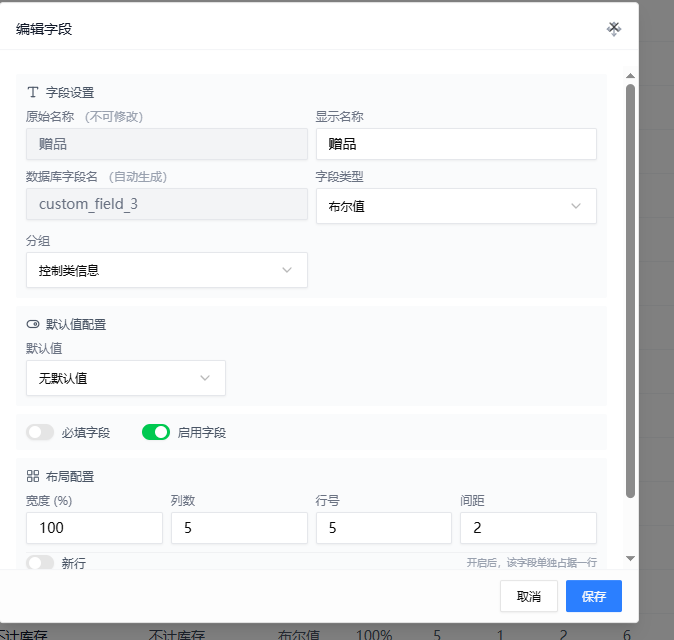
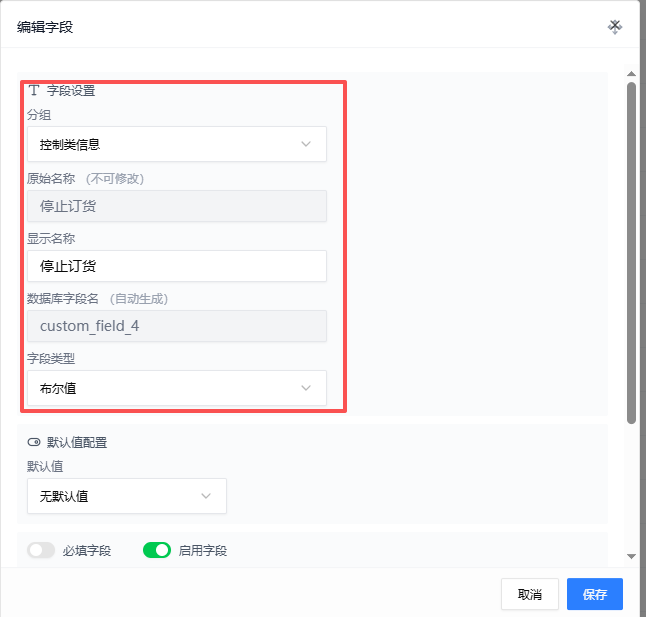
refactor: 将编辑字段表单改为两列布局
- 使用 grid grid-cols-2 实现两列布局
- 第一行：分组（左）、原始名称（右）
- 第二行：显示名称（左）、数据库字段名（右）
- 第三行：字段类型（左）、默认值（右，仅布尔值时显示）
- 移除独立的默认值配置模块，整合到字段设置区域

diff --git a/src/app/products/basic-info/page.tsx b/src/app/products/basic-info/page.tsx
@@ -2120,153 +2120,156 @@ export default function BasicInfoPage() {
                     <Type className="h-3.5 w-3.5" />
                     字段设置
                   </div>
-                  {/* 分组 - 第一行 */}
-                  <div>
-                    <Label htmlFor="group" className="text-xs text-gray-500 mb-1 block">分组</Label>
-                    <Select
-                      value={formData.group}
-                      onValueChange={(value) => {
-                        const maxRowIndex = calculateMaxRowIndex(value)
-                        setFormData({
-                          ...formData,
-                          group: value,
-                          rowIndex: maxRowIndex + 1
-                        })
-                      }}
-                    >
-                      <SelectTrigger className="h-8 text-xs bg-white border-gray-200 w-full max-w-[300px]">
-                        <SelectValue placeholder="选择分组" />
-                      </SelectTrigger>
-                      <SelectContent>
-                        {groups.map((group) => (
-                          <SelectItem key={group.id} value={group.id.toString()} className="text-xs">
-                            {group.name}
-                          </SelectItem>
-                        ))}
-                      </SelectContent>
-                    </Select>
-                  </div>
-                  {/* 原始名称 - 第二行 */}
-                  <div>
-                    <div className="flex items-center gap-1 mb-1">
-                      <Label htmlFor="fieldName" className="text-xs text-gray-500">原始名称</Label>
-                      {editingField && (
-                        <Tooltip>
-                          <TooltipTrigger asChild>
-                            <span className="text-xs text-gray-400 cursor-help">（不可修改）</span>
-                          </TooltipTrigger>
-                          <TooltipContent className="max-w-xs">
-                            <p>原始名称用于标识字段，创建后不可修改。</p>
-                          </TooltipContent>
-                        </Tooltip>
-                      )}
-                    </div>
-                    <Input
-                      id="fieldName"
-                      value={formData.fieldName}
-                      onChange={(e) => {
-                        // 新建模式下：原始名称变化时，显示名称自动同步
-                        if (!editingField) {
+                  {/* 两列布局 */}
+                  <div className="grid grid-cols-2 gap-x-4 gap-y-2">
+                    {/* 分组 - 第一行左 */}
+                    <div>
+                      <Label htmlFor="group" className="text-xs text-gray-500 mb-1 block">分组</Label>
+                      <Select
+                        value={formData.group}
+                        onValueChange={(value) => {
+                          const maxRowIndex = calculateMaxRowIndex(value)
                           setFormData({
                             ...formData,
-                            fieldName: e.target.value,
-                            displayName: e.target.value, // 自动同步显示名称
-                            fieldCode: generateFieldCode(e.target.value)
+                            group: value,
+                            rowIndex: maxRowIndex + 1
                           })
-                        }
-                      }}
-                      readOnly={!!editingField}
-                      className={`h-8 text-xs w-full max-w-[300px] ${editingField ? 'bg-gray-100 border-gray-200 text-gray-500 cursor-not-allowed' : 'bg-white border-gray-200'}`}
-                      required
-                    />
-                  </div>
-                  {/* 显示名称 - 第三行 */}
-                  <div>
-                    <Label htmlFor="displayName" className="text-xs text-gray-500 mb-1 block">显示名称</Label>
-                    <Input
-                      id="displayName"
-                      value={formData.displayName}
-                      onChange={(e) => {
-                        setFormData({ 
-                          ...formData, 
-                          displayName: e.target.value,
-                        })
-                      }}
-                      placeholder="商品列表、表单中显示的名称"
-                      className="h-8 text-xs bg-white border-gray-200 w-full max-w-[300px]"
-                    />
-                  </div>
-                  {/* 数据库字段名 - 第四行 */}
-                  <div>
-                    <div className="flex items-center gap-1 mb-1">
-                      <Label htmlFor="fieldCode" className="text-xs text-gray-500">数据库字段名</Label>
-                      <Tooltip>
-                        <TooltipTrigger asChild>
-                          <span className="text-xs text-gray-400 cursor-help">（自动生成）</span>
-                        </TooltipTrigger>
-                        <TooltipContent className="max-w-xs">
-                          <p>数据库字段名用于存储商品数据，自动生成不可修改。</p>
-                        </TooltipContent>
-                      </Tooltip>
-                    </div>
-                    <Input
-                      id="fieldCode"
-                      value={formData.fieldCode}
-                      readOnly
-                      className="h-8 text-xs bg-gray-100 border-gray-200 text-gray-500 cursor-not-allowed w-full max-w-[300px]"
-                    />
-                  </div>
-                  {/* 字段类型 - 第五行 */}
-                  <div>
-                    <Label htmlFor="fieldType" className="text-xs text-gray-500 mb-1 block">字段类型</Label>
-                    <Select
-                      value={formData.fieldType}
-                      onValueChange={(value) => {
-                        setFormData({ ...formData, fieldType: value, dataSource: 'manual' })
-                        if (value === 'select') {
-                          fetchSuppliers()
-                        }
-                      }}
-                    >
-                      <SelectTrigger className="h-8 text-xs bg-white border-gray-200 w-full max-w-[300px]">
-                        <SelectValue />
-                      </SelectTrigger>
-                      <SelectContent>
-                        <SelectItem value="text" className="text-xs">文本</SelectItem>
-                        <SelectItem value="textarea" className="text-xs">文本多行</SelectItem>
-                        <SelectItem value="number" className="text-xs">数字</SelectItem>
-                        <SelectItem value="select" className="text-xs">单选</SelectItem>
-                        <SelectItem value="boolean" className="text-xs">布尔值</SelectItem>
-                      </SelectContent>
-                    </Select>
-                  </div>
-                </div>
-
-                {/* 布尔值默认值配置 */}
-                {formData.fieldType === 'boolean' && (
-                  <div className="bg-gray-50/80 rounded-md p-2.5 space-y-2">
-                    <div className="flex items-center gap-1.5 text-xs font-medium text-gray-600">
-                      <ToggleRight className="h-3.5 w-3.5" />
-                      默认值配置
-                    </div>
-                    <div>
-                      <Label className="text-xs text-gray-500 mb-1 block">默认值</Label>
-                      <Select
-                        value={formData.defaultValue}
-                        onValueChange={(value) => setFormData({ ...formData, defaultValue: value })}
+                        }}
                       >
-                        <SelectTrigger className="h-8 text-xs bg-white border-gray-200 w-full max-w-[200px]">
-                          <SelectValue placeholder="选择默认值" />
+                        <SelectTrigger className="h-8 text-xs bg-white border-gray-200 w-full">
+                          <SelectValue placeholder="选择分组" />
                         </SelectTrigger>
                         <SelectContent>
-                          <SelectItem value="none" className="text-xs">无默认值</SelectItem>
-                          <SelectItem value="true" className="text-xs">是 (true)</SelectItem>
-                          <SelectItem value="false" className="text-xs">否 (false)</SelectItem>
+                          {groups.map((group) => (
+                            <SelectItem key={group.id} value={group.id.toString()} className="text-xs">
+                              {group.name}
+                            </SelectItem>
+                          ))}
                         </SelectContent>
                       </Select>
                     </div>
+                    {/* 原始名称 - 第一行右 */}
+                    <div>
+                      <div className="flex items-center gap-1 mb-1">
+                        <Label htmlFor="fieldName" className="text-xs text-gray-500">原始名称</Label>
+                        {editingField && (
+                          <Tooltip>
+                            <TooltipTrigger asChild>
+                              <span className="text-xs text-gray-400 cursor-help">（不可修改）</span>
+                            </TooltipTrigger>
+                            <TooltipContent className="max-w-xs">
+                              <p>原始名称用于标识字段，创建后不可修改。</p>
+                            </TooltipContent>
+                          </Tooltip>
+                        )}
+                      </div>
+                      <Input
+                        id="fieldName"
+                        value={formData.fieldName}
+                        onChange={(e) => {
+                          // 新建模式下：原始名称变化时，显示名称自动同步
+                          if (!editingField) {
+                            setFormData({
+                              ...formData,
+                              fieldName: e.target.value,
+                              displayName: e.target.value, // 自动同步显示名称
+                              fieldCode: generateFieldCode(e.target.value)
+                            })
+                          }
+                        }}
+                        readOnly={!!editingField}
+                        className={`h-8 text-xs w-full ${editingField ? 'bg-gray-100 border-gray-200 text-gray-500 cursor-not-allowed' : 'bg-white border-gray-200'}`}
+                        required
+                      />
+                    </div>
+                    {/* 显示名称 - 第二行左 */}
+                    <div>
+                      <Label htmlFor="displayName" className="text-xs text-gray-500 mb-1 block">显示名称</Label>
+                      <Input
+                        id="displayName"
+                        value={formData.displayName}
+                        onChange={(e) => {
+                          setFormData({ 
+                            ...formData, 
+                            displayName: e.target.value,
+                          })
+                        }}
+                        placeholder="商品列表、表单中显示的名称"
+                        className="h-8 text-xs bg-white border-gray-200 w-full"
+                      />
+                    </div>
+                    {/* 数据库字段名 - 第二行右 */}
+                    <div>
+                      <div className="flex items-center gap-1 mb-1">
+                        <Label htmlFor="fieldCode" className="text-xs text-gray-500">数据库字段名</Label>
+                        <Tooltip>
+                          <TooltipTrigger asChild>
+                            <span className="text-xs text-gray-400 cursor-help">（自动生成）</span>
+                          </TooltipTrigger>
+                          <TooltipContent className="max-w-xs">
+                            <p>数据库字段名用于存储商品数据，自动生成不可修改。</p>
+                          </TooltipContent>
+                        </Tooltip>
+                      </div>
+                      <Input
+                        id="fieldCode"
+                        value={formData.fieldCode}
+                        readOnly
+                        className="h-8 text-xs bg-gray-100 border-gray-200 text-gray-500 cursor-not-allowed w-full"
+                      />
+                    </div>
+                    {/* 字段类型 - 第三行左 */}
+                    <div>
+                      <Label htmlFor="fieldType" className="text-xs text-gray-500 mb-1 block">字段类型</Label>
+                      <Select
+                        value={formData.fieldType}
+                        onValueChange={(value) => {
+                          setFormData({ ...formData, fieldType: value, dataSource: 'manual' })
+                          if (value === 'select') {
+                            fetchSuppliers()
+                          }
+                        }}
+                      >
+                        <SelectTrigger className="h-8 text-xs bg-white border-gray-200 w-full">
+                          <SelectValue />
+                        </SelectTrigger>
+                        <SelectContent>
+                          <SelectItem value="text" className="text-xs">文本</SelectItem>
+                          <SelectItem value="textarea" className="text-xs">文本多行</SelectItem>
+                          <SelectItem value="number" className="text-xs">数字</SelectItem>
+                          <SelectItem value="select" className="text-xs">单选</SelectItem>
+                          <SelectItem value="boolean" className="text-xs">布尔值</SelectItem>
+                        </SelectContent>
+                      </Select>
+                    </div>
+                    {/* 默认值 - 第三行右（仅布尔值类型时显示） */}
+                    <div>
+                      {formData.fieldType === 'boolean' ? (
+                        <>
+                          <Label className="text-xs text-gray-500 mb-1 block">默认值</Label>
+                          <Select
+                            value={formData.defaultValue}
+                            onValueChange={(value) => setFormData({ ...formData, defaultValue: value })}
+                          >
+                            <SelectTrigger className="h-8 text-xs bg-white border-gray-200 w-full">
+                              <SelectValue placeholder="选择默认值" />
+                            </SelectTrigger>
+                            <SelectContent>
+                              <SelectItem value="none" className="text-xs">无默认值</SelectItem>
+                              <SelectItem value="true" className="text-xs">是 (true)</SelectItem>
+                              <SelectItem value="false" className="text-xs">否 (false)</SelectItem>
+                            </SelectContent>
+                          </Select>
+                        </>
+                      ) : (
+                        <div className="invisible">
+                          <Label className="text-xs text-gray-500 mb-1 block">占位</Label>
+                          <div className="h-8"></div>
+                        </div>
+                      )}
+                    </div>
                   </div>
-                )}
+                </div>
 
                 {/* 单选选项配置 */}
                 {formData.fieldType === 'select' && (
